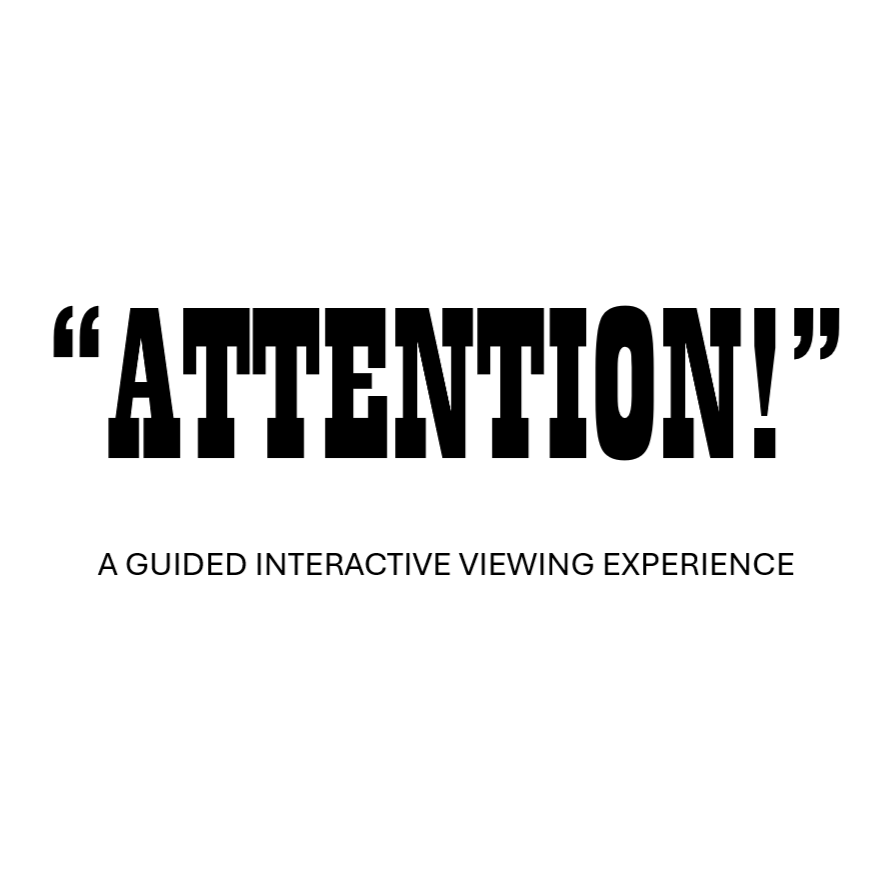
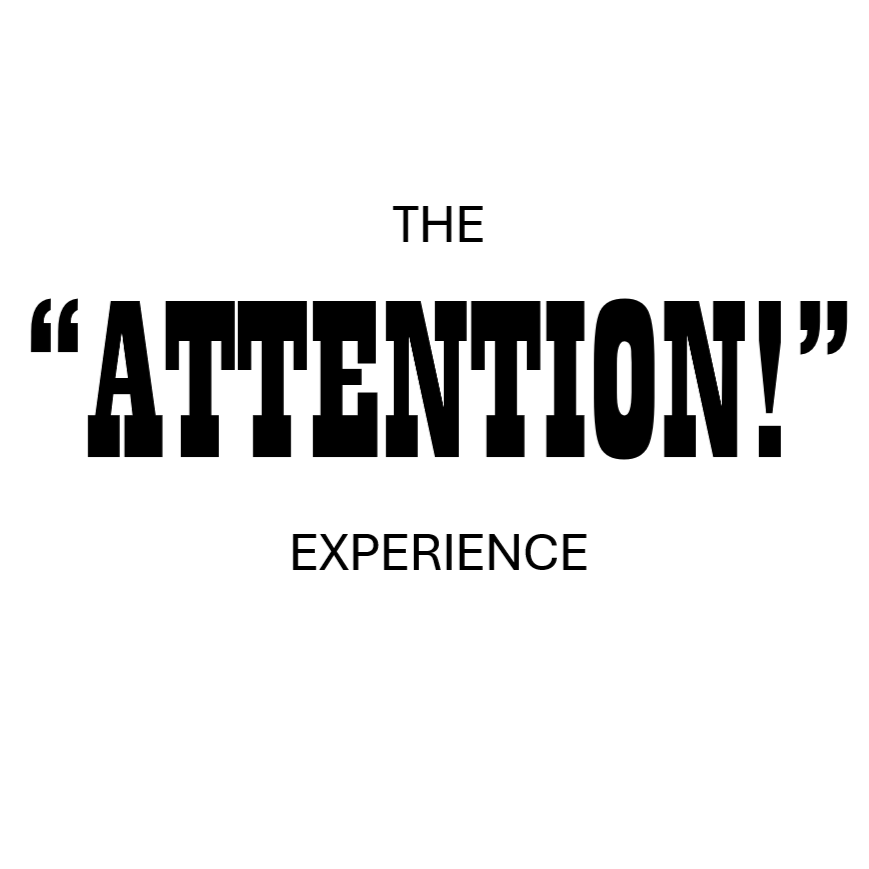
starting the attention page

Changed region(s): [[0.0311, 0.3418, 0.9942, 0.5282], [0.0932, 0.5903, 0.901, 0.6525], [0.4661, 0.2175, 0.5593, 0.2796]]

diff --git a/src/components/Art_Attention.jsx b/src/components/Art_Attention.jsx
@@ -1,0 +1,32 @@
+import NavBar from "./NavBar";
+function Art_Attention() {
+  return (
+    <div className="attentionOuterContainer">
+      <div className="navBarDiv">
+        <NavBar />
+      </div>
+      <div className="attentionBody">
+        <img
+          className="attentionTitle"
+          src={`${import.meta.env.BASE_URL}attention/title.png`}
+        />
+        <p>
+          THIS PROJECT IS A MULTI-LAYERED, MULTI-MEDIA EXPERIENCE THAT IS
+          INTENTED TO BE EXPERIENCED IN-PERSON IN AN INTERACTIVE STYLE. IN LIEU
+          OF THAT, BELOW IS A DIGITAL DISPLAY OF THE PROJECT, ALONG WITH
+          COMMENTARY TO HELP GUIDE THE EXPERIENCE. AS EXPLAINED PREVIOUSLY. THIS
+          DIGITAL FORMAT ADDS YET ANOTHER LAYER TO ATTENTION. PLEASE BE SURE TO
+          FOLLOW ALONG CLOSELY THOUGHOUT THE DISPLAY. FOR A COMPLETE
+          UNDERSTANDING, PLEASE CONSULT THE SUPPLEMENTAL DIAGRAM BELOW.
+        </p>
+        <img
+          className="attentionImage"
+          src={`${import.meta.env.BASE_URL}attention/webdiagram1.png`}
+        />
+        <h2>PART ONE: THE ENVELOPE</h2>
+        <p>PARTICIPANTS OF THE "ATTENTION" EXPERIENCE</p>
+      </div>
+    </div>
+  );
+}
+export default Art_Attention;

diff --git a/src/components/App.jsx b/src/components/App.jsx
@@ -3,6 +3,7 @@ import Landing from "./Landing";
 import Home from "./Home";
 import Art from "./Art";
 import Art_Sketchbook from "./Art_Sketchbook";
+import Art_Attention from "./Art_Attention";
 import Art_Comfort from "./Art_Comfort";
 import Art_Worldly from "./Art_Worldly";
 import Photography from "./Photography";
@@ -17,6 +18,7 @@ function App() {
         <Route path="/art/sketchbook" element={<Art_Sketchbook />} />
         <Route path="/art/comfort" element={<Art_Comfort />} />
         <Route path="/art/worldly" element={<Art_Worldly />} />
+        <Route path="/art/attention" element={<Art_Attention />} />
         <Route path="/photography" element={<Photography />} />
       </Routes>
     </>

diff --git a/src/components/Art.jsx b/src/components/Art.jsx
@@ -3,6 +3,16 @@ import { NavLink } from "react-router-dom";
 function Art() {
   let projects = [
     {
+      id: 0,
+      title: "The 'ATTENTION!' Experience",
+      description:
+        "This page is a digital presentation of my multi-media, multi-layered project called 'ATTENTION!' which was originally an in-person, interactive experience.",
+      medium: "Multimedia",
+      date: "2024",
+      link: "/art/attention",
+      image: `${import.meta.env.BASE_URL}attention/thumbnail.png`,
+    },
+    {
       id: 1,
       title: "'On Comfort...'",
       description: "A series of drawings exploring the concept of comfort.",

diff --git a/src/Attention.css b/src/Attention.css
@@ -1,0 +1,21 @@
+.attentionOuterContainer {
+  display: flex;
+  justify-content: center;
+  align-items: center;
+  flex-direction: column;
+  width: 100%;
+}
+.attentionBody {
+  width: 100%;
+  max-width: 70%;
+  font-family: "Roboto", sans-serif;
+}
+.attentionImage {
+  width: 100%;
+  /* max-width: 70%; */
+}
+.attentionTitle {
+  padding-top: 5%;
+  width: 30%;
+  /* max-width: 30%; */
+}

diff --git a/src/App.css b/src/App.css
@@ -1,6 +1,7 @@
 @import "Home.css";
 @import "Art.css";
 @import "Sketchbook.css";
+@import "Attention.css";
 
 /* DESKTOP (GENERAL) */
 body,
@@ -10,6 +11,7 @@ html,
   padding: 0;
   height: 100%;
   font-family: "Garamond", "Times New Roman", "Courier New", "serif";
+  /* background-color: antiquewhite; */
 }
 
 * {
